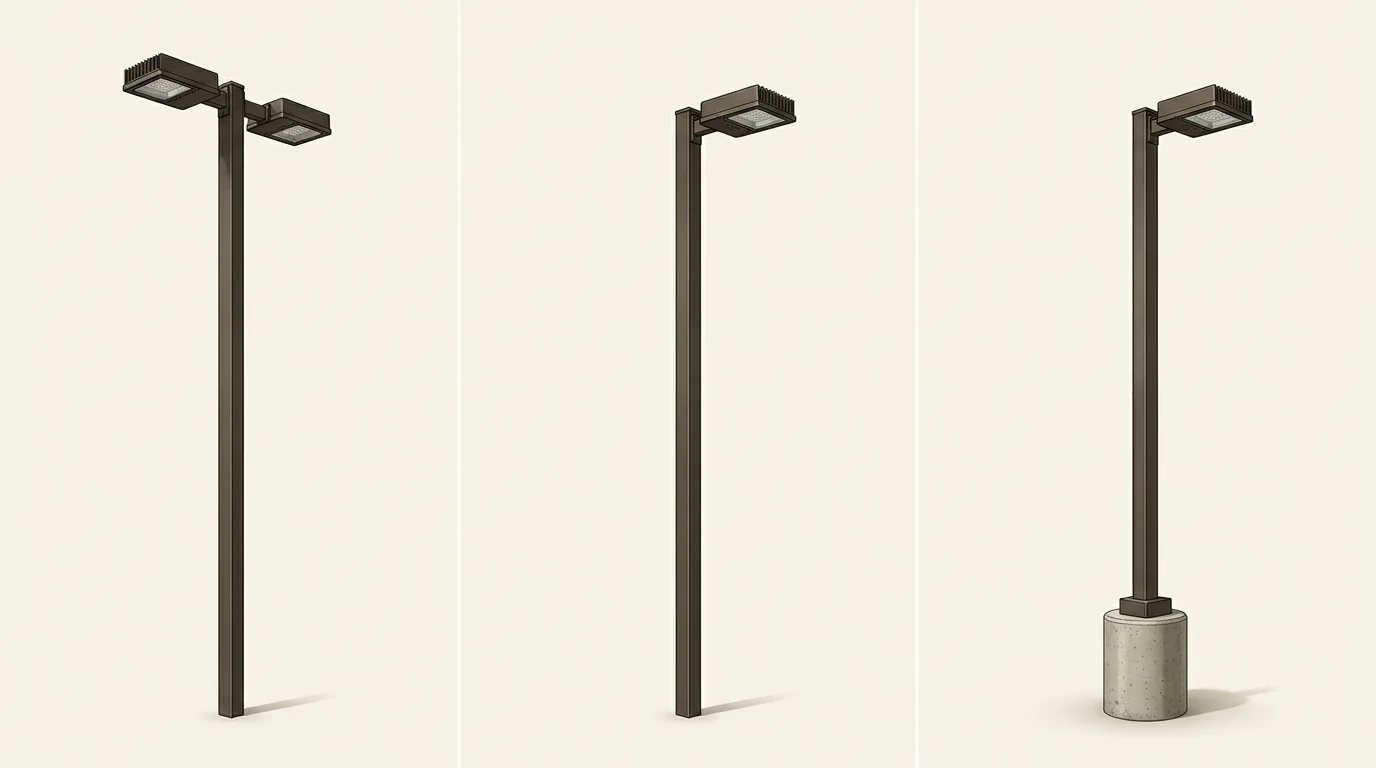
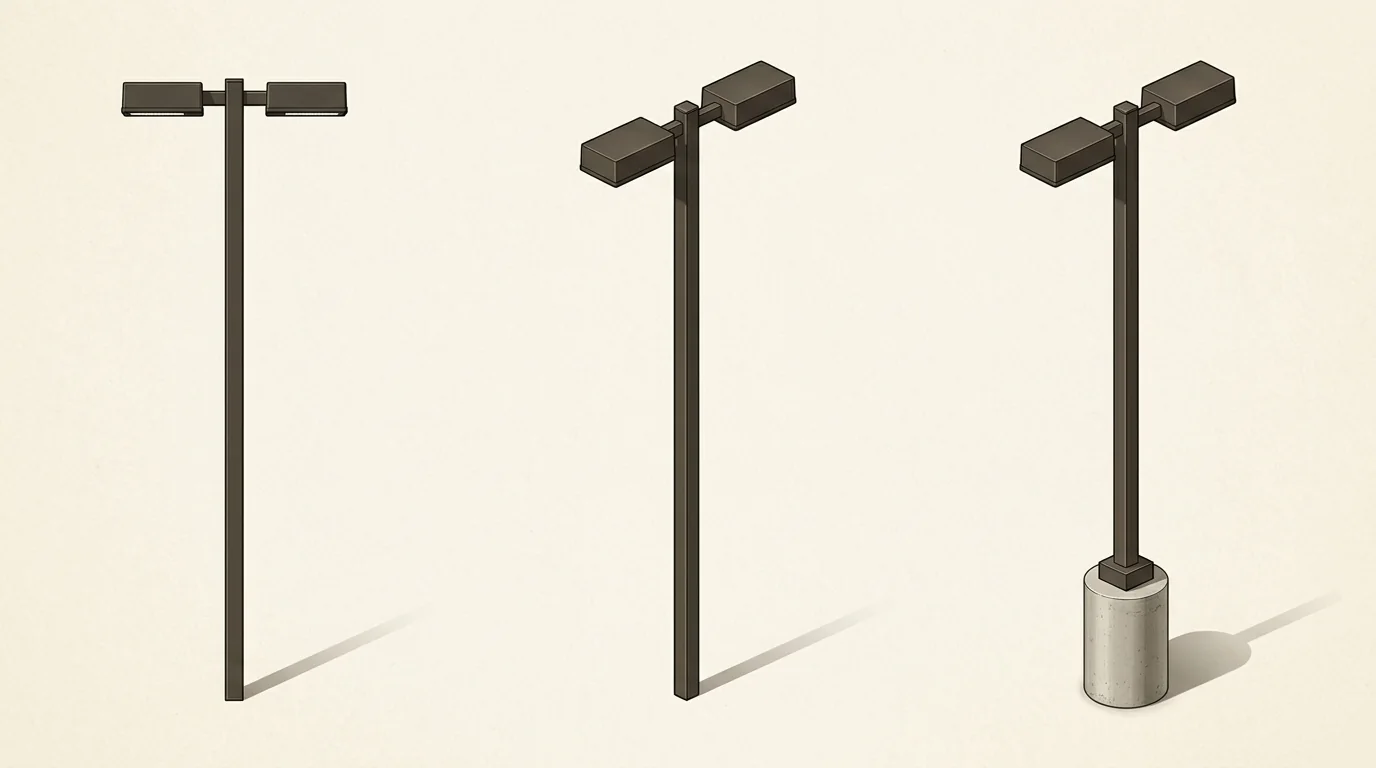
Redraw A-7 light poles as OTB's twin-head poles

diff --git a/src/lib/visual-library.js b/src/lib/visual-library.js
@@ -18,7 +18,7 @@ export const STOREFRONT_VIEWS = [
 ];
 
 export const SITE_ELEMENTS = [
-  { id: "poles", label: "Light poles", note: "Parking-field poles and heads", file: "site-light-poles.webp" },
+  { id: "poles", label: "Light poles", note: "Parking-field poles, twin heads", file: "site-light-poles.webp" },
   { id: "bollards", label: "Bollards", note: "Pipe, sleeved and decorative", file: "site-bollards.webp" },
   { id: "hvac", label: "HVAC", note: "Rooftop units, condenser, exhaust fan", file: "site-hvac.webp" },
   { id: "electrical", label: "Electrical", note: "Transformer, meter bank, disconnect, time clock", file: "site-electrical.webp" }
